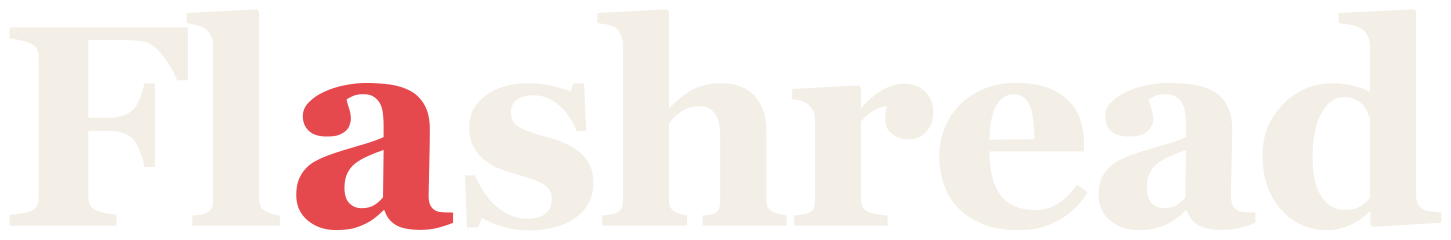
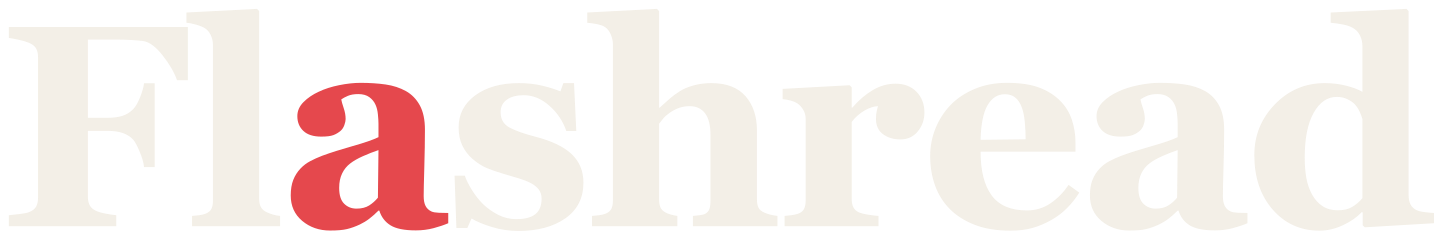
Outline the marks, bump the Pages actions, cache v5
The exported SVGs carried live <text> in Georgia, which is absent on Android
and most Linux. A substitute serif has different metrics, and the viewBox was
measured against real Georgia, so the fallback got clipped rather than merely
looking different. Glyphs are now converted to outlines via opentype.js, so
the files render identically everywhere and depend on no installed font.

Falling out of that:
- The viewBox is the union of the outlines' own bounding boxes, exact by
  construction. Drops the rasterise-and-trim probe the previous version used
  to guess it.
- orp() is mirrored into the script rather than the pivot index being typed
  in, so both marks stay the engine's output on their own text.
- favicon.svg is outlined too, keeping its geometry; the icon PNGs are
  unchanged in appearance (they were already font-independent once rasterised,
  but now come off the same path data).

gen-icons.mjs needs Georgia Bold locally and exits with the paths it looked in
if absent. It is run by hand, never by CI, so the deploy is unaffected.

Also: bump the five Pages actions off the deprecated Node 20 runtime, and the
service-worker cache to v5 so installed instances drop the previous wordmark
files, which are unhashed and served cache-first.

Claude-Session: https://claude.ai/code/session_01CFYUcqtHgpKsLxEyn5Zx1v

diff --git a/public/sw.js b/public/sw.js
@@ -4,7 +4,7 @@
 // - Other same-origin GETs (hashed JS/CSS/fonts, icons): cache-first, since Vite
 //   fingerprints them and they never change under a given URL.
 // Bump CACHE to invalidate everything on the next visit.
-const CACHE = 'flashread-v4'
+const CACHE = 'flashread-v5'
 
 self.addEventListener('install', () => self.skipWaiting())
 
